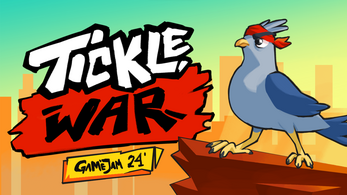
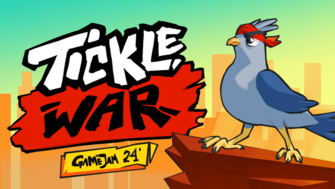
tickle teste

diff --git a/award_GGJ.html b/award_GGJ.html
@@ -110,7 +110,7 @@
 							</p>
 
 							<a href="game_POPTHEPOPS.html" class="image main"><img src="images/popthepopsThumbail.png" alt="" /></a>
-							<a href="game_TICKLEWAR.html" class="image main"><img src="images/tickleWar.png" alt="" /></a>
+							<a href="game_TICKLEWAR.html" class="image main"><img src="images/Captura de pantalla (7).png" alt="" /></a>
 
 							<ul class="actions" style="justify-content: center;">
 								<li><a href="game_TICKLEWAR.html" class="button">Read More</a></li>
